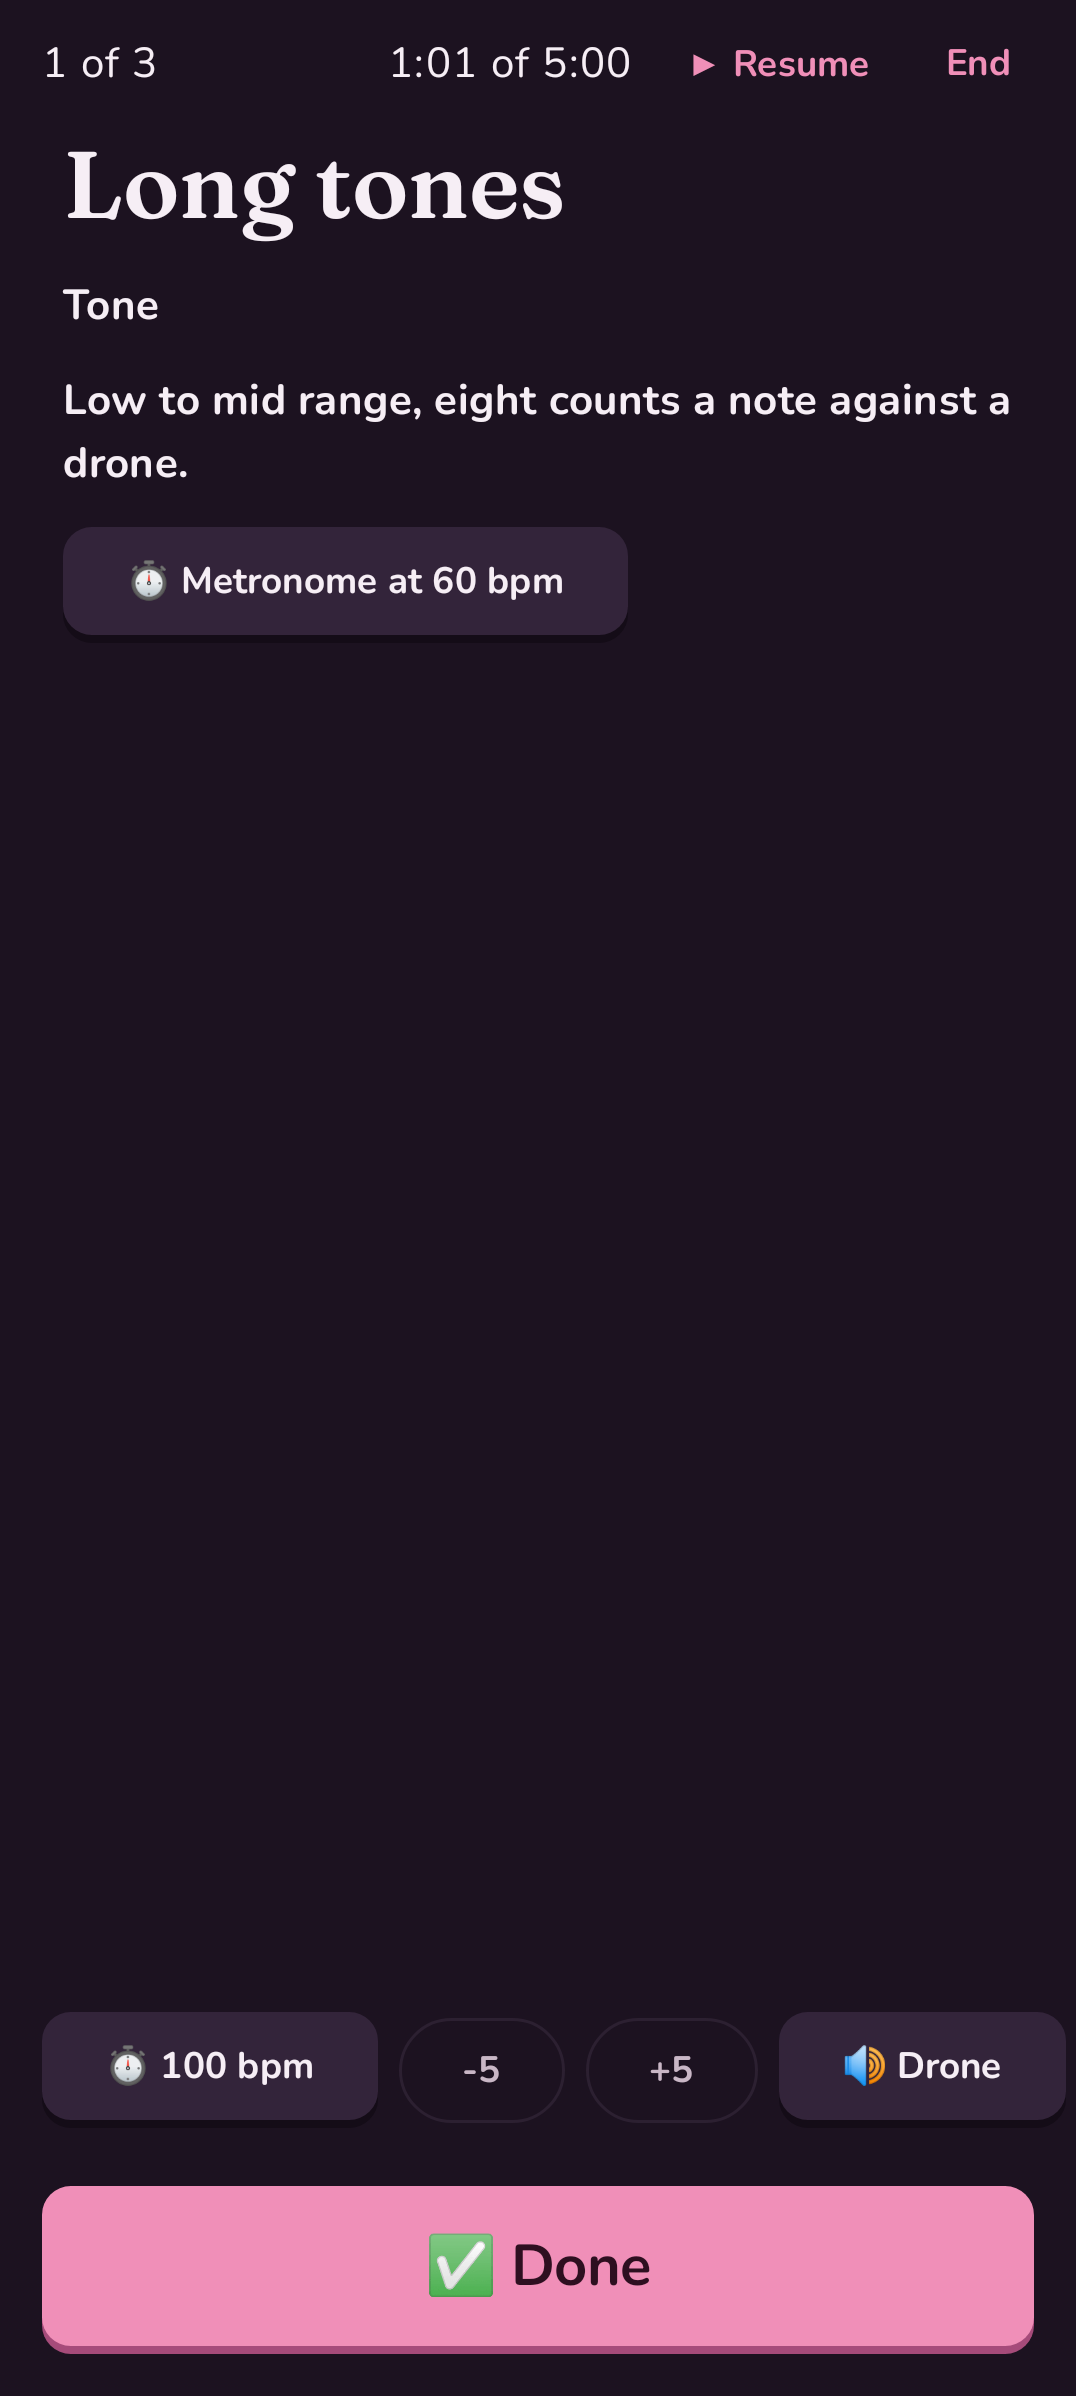
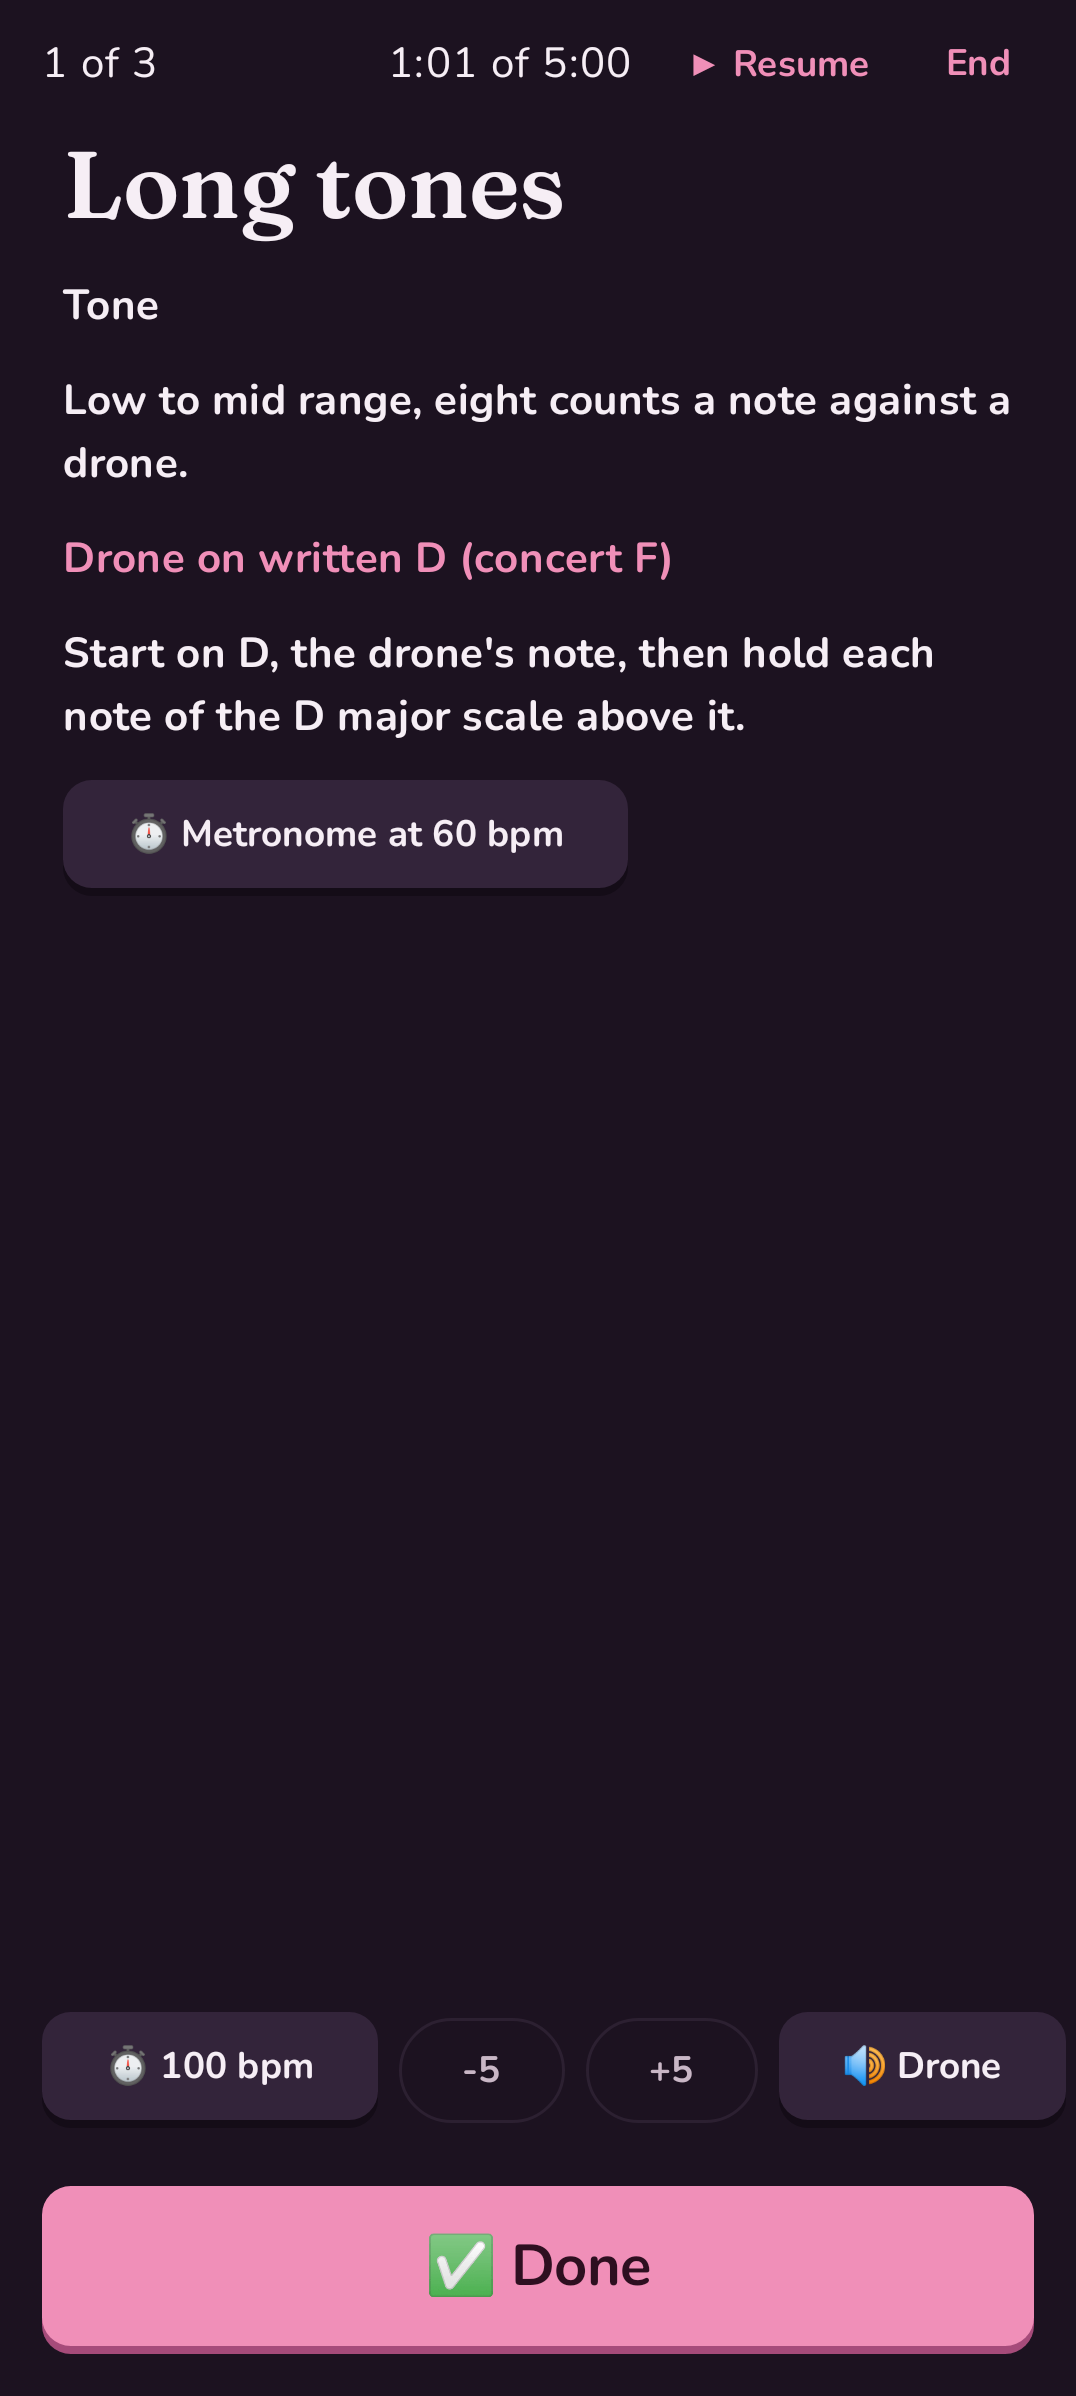
feat(app): name the notes and drone pitch on long tone blocks

Changed region(s): [[0.0613, 0.2162, 0.8587, 0.3706]]

diff --git a/app/src/main/java/com/larakelley/woodshed/ui/practice/PracticeModel.kt b/app/src/main/java/com/larakelley/woodshed/ui/practice/PracticeModel.kt
@@ -16,11 +16,13 @@ import com.larakelley.woodshed.domain.ClickTrack
 import com.larakelley.woodshed.domain.Focus
 import com.larakelley.woodshed.domain.Grade
 import com.larakelley.woodshed.domain.Instrument
+import com.larakelley.woodshed.domain.Key
 import com.larakelley.woodshed.domain.Lifecycle
 import com.larakelley.woodshed.domain.PlanBlock
 import com.larakelley.woodshed.domain.Transposition
 import com.larakelley.woodshed.domain.delayLabel
 import com.larakelley.woodshed.domain.titleSortKey
+import com.larakelley.woodshed.domain.usesDrone
 import com.larakelley.woodshed.session.SessionRunner
 import com.larakelley.woodshed.ui.browse.ExerciseRow
 import com.larakelley.woodshed.ui.browse.exerciseRow
@@ -30,6 +32,7 @@ import kotlinx.coroutines.flow.asStateFlow
 import kotlinx.coroutines.flow.first
 import kotlinx.coroutines.flow.update
 import kotlinx.coroutines.launch
+import kotlin.random.Random
 
 /** What the review screen shows for one card. */
 data class CardView(
@@ -130,11 +133,34 @@ data class SetupUi(
   val plan: List<PlanItem>? = null,
 )
 
+/** The drone's note for an exercise block, named for the user's transposition. */
+data class DroneNote(val concertPitchClass: Int, val label: String, val notes: String?)
+
+/**
+ * Names the drone's [concertPitchClass] as the user reads it. Long tones and other tone work also say which notes to
+ * hold: the drone's own note, then its major scale.
+ */
+fun droneNote(concertPitchClass: Int, category: String, transposition: Transposition): DroneNote {
+  val concert = Key(concertPitchClass, minor = false).displayName
+  val written = Key(concertPitchClass, minor = false).writtenFor(transposition).displayName
+  val label = if (transposition == Transposition.C) "Drone on $concert" else "Drone on written $written (concert $concert)"
+  val notes = if (category == "Tone") "Start on $written, the drone's note, then hold each note of the $written major scale above it." else null
+  return DroneNote(concertPitchClass, label, notes)
+}
+
 /** The block being worked through in a running session. */
 sealed interface StepView {
   val minutes: Int
 
-  data class Exercise(val name: String, val category: String, val description: String, val tempoBpm: Int?, override val minutes: Int) : StepView
+  data class Exercise(
+    val name: String,
+    val category: String,
+    val description: String,
+    val tempoBpm: Int?,
+    override val minutes: Int,
+    /** What to play against the drone, for an exercise that uses one. */
+    val drone: DroneNote? = null,
+  ) : StepView
 
   data class Tune(val card: CardView, override val minutes: Int) : StepView
 
@@ -327,8 +353,13 @@ class PracticeViewModel(
   fun replace(index: Int, exerciseId: Long) {
     val plan = _ui.value.setup.plan ?: return
     val replaced = when (val block = plan.getOrNull(index)?.block) {
-      is PlanBlock.Exercise -> block.copy(exerciseId = exerciseId)
+      is PlanBlock.Exercise -> {
+        val droned = exercises[exerciseId]?.description?.let(::usesDrone) == true
+        block.copy(exerciseId = exerciseId, dronePitchClass = if (droned) block.dronePitchClass ?: Random.nextInt(12) else null)
+      }
+
       is PlanBlock.Tune -> block.copy(exerciseId = exerciseId)
+
       is PlanBlock.Solo, null -> return
     }
     _ui.update { it.copy(setup = it.setup.copy(plan = plan.toMutableList().also { p -> p[index] = planItem(replaced) })) }

diff --git a/app/src/test/java/com/larakelley/woodshed/ui/practice/PracticeScreenTest.kt b/app/src/test/java/com/larakelley/woodshed/ui/practice/PracticeScreenTest.kt
@@ -7,6 +7,7 @@ import androidx.compose.runtime.mutableStateOf
 import androidx.compose.runtime.setValue
 import androidx.compose.ui.test.assertIsSelected
 import androidx.compose.ui.test.assertTextContains
+import androidx.compose.ui.test.assertTextEquals
 import androidx.compose.ui.test.hasScrollAction
 import androidx.compose.ui.test.hasTestTag
 import androidx.compose.ui.test.hasText
@@ -24,6 +25,7 @@ import com.larakelley.woodshed.domain.Focus
 import com.larakelley.woodshed.domain.Grade
 import com.larakelley.woodshed.domain.Instrument
 import com.larakelley.woodshed.domain.PlanBlock
+import com.larakelley.woodshed.domain.Transposition
 import com.larakelley.woodshed.ui.browse.ExerciseRow
 import org.junit.Assert.assertEquals
 import org.junit.Assert.assertTrue
@@ -125,6 +127,25 @@ class PracticeScreenTest {
     compose.onNodeWithTag("use-drone").performClick()
     assertEquals(listOf<Int?>(7), drones)
     assertTrue(droneStopped)
+  }
+
+  @Test
+  fun aDroneExerciseNamesItsNotesAndDronesOnThem() {
+    val drones = mutableListOf<Int?>()
+    val step = StepView.Exercise("Long tones", "Tone", "Eight counts a note against a drone.", null, 5, droneNote(5, "Tone", Transposition.Bb))
+    compose.mainClock.autoAdvance = false
+    compose.setContent {
+      SessionScreen(PracticeUi(running = true, step = step, stepCount = 3), onGrade = {}, onNext = {}, onStop = {}, onDrone = { drones += it })
+    }
+    compose.mainClock.advanceTimeByFrame()
+
+    compose.onNodeWithTag("step-drone").assertTextEquals("Drone on written G (concert F)")
+    compose.onNodeWithText("Start on G, the drone's note, then hold each note of the G major scale above it.").assertExists()
+    compose.onNodeWithTag("use-drone").performClick()
+    assertEquals(listOf<Int?>(5), drones)
+
+    // Reading in C there is no written key to give, and only tone work lists notes to hold.
+    assertEquals(DroneNote(5, "Drone on F", null), droneNote(5, "Ear Training", Transposition.C))
   }
 
   @Test

diff --git a/app/src/main/java/com/larakelley/woodshed/ui/practice/PracticeScreen.kt b/app/src/main/java/com/larakelley/woodshed/ui/practice/PracticeScreen.kt
@@ -401,6 +401,15 @@ fun SessionScreen(
           Text(step.name, style = MaterialTheme.typography.displaySmall, modifier = Modifier.testTag("step-title"))
           Text(step.category, style = MaterialTheme.typography.titleMedium)
           Text(step.description, style = MaterialTheme.typography.titleMedium)
+          step.drone?.let { drone ->
+            Text(
+              drone.label,
+              style = MaterialTheme.typography.titleMedium,
+              color = MaterialTheme.colorScheme.primary,
+              modifier = Modifier.testTag("step-drone"),
+            )
+            drone.notes?.let { Text(it, style = MaterialTheme.typography.titleMedium) }
+          }
           step.tempoBpm?.let { bpm ->
             StickerButton(onClick = { onUseTempo(bpm) }, sticker = neutralSticker, modifier = Modifier.height(44.dp).testTag("use-tempo")) {
               Text("⏱ Metronome at $bpm bpm", style = MaterialTheme.typography.labelLarge)
@@ -441,8 +450,11 @@ fun SessionScreen(
       }
       OutlinedButton(onClick = { onSetBpm(bpm - 5) }, modifier = Modifier.testTag("session-slower")) { Text("-5") }
       OutlinedButton(onClick = { onSetBpm(bpm + 5) }, modifier = Modifier.testTag("session-faster")) { Text("+5") }
-      val tuneKey = (step as? StepView.Tune)?.card?.concertPitchClass
-      DroneButton(if (tuneKey != null) "🔊 Drone on the key" else "🔊 Drone", tuneKey)
+      when {
+        step is StepView.Tune && step.card.concertPitchClass != null -> DroneButton("🔊 Drone on the key", step.card.concertPitchClass)
+        step is StepView.Exercise && step.drone != null -> DroneButton("🔊 Drone", step.drone.concertPitchClass)
+        else -> DroneButton("🔊 Drone", null)
+      }
     }
     when (step) {
       is StepView.Exercise ->

diff --git a/app/src/main/java/com/larakelley/woodshed/data/PracticeService.kt b/app/src/main/java/com/larakelley/woodshed/data/PracticeService.kt
@@ -29,6 +29,7 @@ import com.larakelley.woodshed.domain.concertKeyFor
 import com.larakelley.woodshed.domain.pickExercise
 import com.larakelley.woodshed.domain.planSession
 import com.larakelley.woodshed.domain.soloMinutes
+import com.larakelley.woodshed.domain.usesDrone
 import com.larakelley.woodshed.domain.withSolo
 import java.time.Instant
 import java.time.ZoneId
@@ -152,7 +153,10 @@ class PracticeService(
       tuneExercise = { id -> tuneExercises.takeIf { it.isNotEmpty() }?.let { pickExercise(it, { e -> e.id }, history.getValue(id), random).id } },
       random = random,
     )
-    return if (solo != null && forSolo > 0) withSolo(blocks, PlanBlock.Solo(solo.id, forSolo)) else blocks
+    // Each drone exercise gets its note now, so the plan, the session and a restored session all agree on it.
+    val droned = exercises.filter { usesDrone(it.description) }.map { it.id }.toSet()
+    val withDrones = blocks.map { if (it is PlanBlock.Exercise && it.exerciseId in droned) it.copy(dronePitchClass = random.nextInt(12)) else it }
+    return if (solo != null && forSolo > 0) withSolo(withDrones, PlanBlock.Solo(solo.id, forSolo)) else withDrones
   }
 
   /** The solo being transcribed that is most due, if any. */

diff --git a/app/src/test/java/com/larakelley/woodshed/screenshots/ScreenshotTest.kt b/app/src/test/java/com/larakelley/woodshed/screenshots/ScreenshotTest.kt
@@ -31,6 +31,7 @@ import com.larakelley.woodshed.ui.practice.SetupActions
 import com.larakelley.woodshed.ui.practice.SetupUi
 import com.larakelley.woodshed.ui.practice.StepView
 import com.larakelley.woodshed.ui.practice.TuneGroup
+import com.larakelley.woodshed.ui.practice.droneNote
 import com.larakelley.woodshed.ui.tools.DroneActions
 import com.larakelley.woodshed.ui.tools.DroneScreen
 import com.larakelley.woodshed.ui.tools.MetronomeActions
@@ -135,7 +136,14 @@ class ScreenshotTest(private val mode: String) {
     SessionScreen(
       PracticeUi(
         running = true,
-        step = StepView.Exercise("Long tones", "Tone", "Low to mid range, eight counts a note against a drone.", 60, 5),
+        step = StepView.Exercise(
+          "Long tones",
+          "Tone",
+          "Low to mid range, eight counts a note against a drone.",
+          60,
+          5,
+          droneNote(5, "Tone", Transposition.Eb),
+        ),
         stepIndex = 0,
         stepCount = 3,
         // Paused, so the block timer shows the same time on every run.

diff --git a/app/src/main/java/com/larakelley/woodshed/session/SessionRunner.kt b/app/src/main/java/com/larakelley/woodshed/session/SessionRunner.kt
@@ -12,6 +12,7 @@ import com.larakelley.woodshed.domain.PlanBlock
 import com.larakelley.woodshed.domain.delayLabel
 import com.larakelley.woodshed.ui.practice.StepView
 import com.larakelley.woodshed.ui.practice.cardView
+import com.larakelley.woodshed.ui.practice.droneNote
 import kotlinx.coroutines.CompletableDeferred
 import kotlinx.coroutines.CoroutineScope
 import kotlinx.coroutines.flow.MutableStateFlow
@@ -180,7 +181,10 @@ class SessionRunner(
     is PlanBlock.Exercise ->
       repository.exercises.first().firstOrNull {
         it.id == block.exerciseId
-      }?.let { StepView.Exercise(it.name, it.category, it.description, it.tempoBpm, block.minutes) }
+      }?.let { e ->
+        val drone = block.dronePitchClass?.let { droneNote(it, e.category, repository.transposition.value) }
+        StepView.Exercise(e.name, e.category, e.description, e.tempoBpm, block.minutes, drone)
+      }
 
     is PlanBlock.Tune -> practice.cardForBlock(block, repository.transposition.value)?.let { c ->
       card = c

diff --git a/app/src/test/java/com/larakelley/woodshed/data/PracticeServiceTest.kt b/app/src/test/java/com/larakelley/woodshed/data/PracticeServiceTest.kt
@@ -73,6 +73,18 @@ class PracticeServiceTest {
   }
 
   @Test
+  fun planGivesEachDroneExerciseANoteAndOthersNone() = runTest {
+    val exercises = db.exercises().all().associateBy { it.id }
+    val blocks = (1..10).flatMap { practice.plan(60, setOf(Focus.TONE), emptyList(), Instrument.ALTO_SAX, null) }.filterIsInstance<PlanBlock.Exercise>()
+    assertTrue(blocks.any { it.dronePitchClass != null })
+    blocks.forEach { b ->
+      val droned = exercises.getValue(b.exerciseId).description.contains("drone", ignoreCase = true)
+      assertEquals(droned, b.dronePitchClass != null)
+      b.dronePitchClass?.let { assertTrue(it in 0..11) }
+    }
+  }
+
+  @Test
   fun planPairsEachChosenTuneWithATuneExercise() = runTest {
     val tunes = listOf(id("autumn-leaves"), id("solar"))
     val plan = practice.plan(45, setOf(Focus.ARTICULATION), tunes, Instrument.ALTO_SAX)

diff --git a/app/src/main/java/com/larakelley/woodshed/domain/Session.kt b/app/src/main/java/com/larakelley/woodshed/domain/Session.kt
@@ -26,7 +26,12 @@ sealed interface PlanBlock {
 
   @Serializable
   @SerialName("exercise")
-  data class Exercise(val exerciseId: Long, override val minutes: Int) : PlanBlock
+  data class Exercise(
+    val exerciseId: Long,
+    override val minutes: Int,
+    /** The concert pitch class of the drone, for an exercise played against one. */
+    val dronePitchClass: Int? = null,
+  ) : PlanBlock
 
   /** A tune worked through one tune exercise. */
   @Serializable
@@ -40,6 +45,9 @@ sealed interface PlanBlock {
 }
 
 const val MIN_BLOCK_MINUTES = 3
+
+/** Whether an exercise is played against a drone, which its instructions say. */
+fun usesDrone(description: String): Boolean = description.contains("drone", ignoreCase = true)
 
 /** Warm-ups stay easy; harder tone work belongs with the Tone focus. */
 const val MAX_WARMUP_DIFFICULTY = 2
